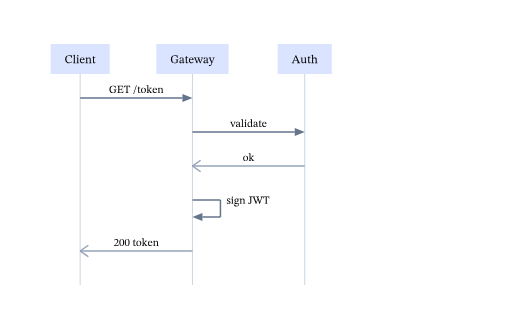
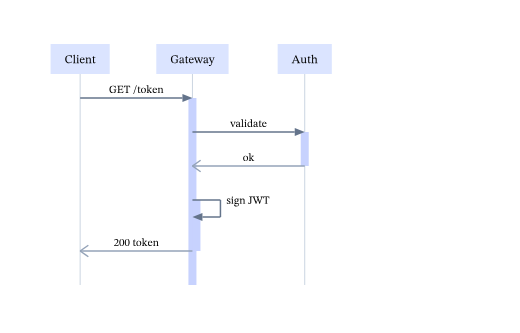
sequence: activation frames (M2 — implicit activation + nesting/offset)
Draws activation bars on actor lifelines in SequenceLayout — the single
most-expected missing sequence feature (M1 was linear-only).

IMPLICIT activation semantics (zero new parser/IR surface — derived entirely
in layout from the existing call/reply kinds):
  - a CALL `->>` activates its CALLEE (the `to`): pushes an activation onto
    that actor's stack, starting at the message y;
  - a REPLY `-->>` deactivates its SENDER (the `from`): pops that actor's
    most-recent open activation (LIFO), ending its bar at the reply y.
Implicit-only: no explicit `activate`/`deactivate` lines — kept parseSequence
untouched so it can't conflict with the sibling worker's top-level `case`.

Self-message decision (Mermaid semantics, documented): a self-call `A ->> A`
activates A too — the callee is A, so no special case is needed.

Nesting/offset: concurrent activations of the SAME actor carry a depth (the
open-count at push time); each steps ACT_OFFSET (4px) to the right so
overlapping bars stay visible. Bars are thin ACT_FILL (#c7d2fe) rects centred
on the lifeline, emitted after the lifelines (overlay) and before the messages
(arrows draw on top). Arrows still connect to the lifeline CENTRE (v1 — bar
overlays the centred arrow; edge-coupling deferred).

Robustness (DESIGN §6, malformed→inert never throw): an UNBALANCED reply
(pop on an empty stack) is ignored; an UNBALANCED call (no reply) keeps its
default endY = contentBottom, closing cleanly at the diagram bottom. Canvas
[…]

Changed region(s): [[0.3385, 0.3003, 0.4, 0.8709], [0.5538, 0.3904, 0.6154, 0.5105]]

diff --git a/src/test/java/com/sirentide/SequenceTest.java b/src/test/java/com/sirentide/SequenceTest.java
@@ -169,7 +169,9 @@ class SequenceTest {
     void nActorsRenderNRectsAndNLifelines() {
         String svg = Sirentide.render("sequence\nA ->> B : x\nB ->> C : y\n");
         assertTrue(svg.startsWith("<svg") && svg.endsWith("</svg>"), "well-formed");
-        assertEquals(3, count(svg, "<rect"), "one head box per actor");
+        // Head boxes carry the head fill; activation bars (M2) add their own ACT_FILL rects, so count
+        // HEAD rects by fill — one per actor (the two calls here also open two activation bars).
+        assertEquals(3, count(svg, "fill=\"#dbe4ff\""), "one head box per actor");
         // Lifelines are the ONLY light-stroke lines; 3 actors → 3 lifelines (message lines add more).
         assertEquals(3, count(svg, "stroke=\"#cbd5e1\""), "one lifeline per actor");
         assertFalse(svg.contains("<text"), "labels are glyph paths, never <text>");
@@ -199,7 +201,9 @@ class SequenceTest {
     void selfMessageRendersAHookAndArrowhead() {
         String svg = Sirentide.render("sequence\nAlice ->> Alice : loop\n");
         assertTrue(svg.startsWith("<svg"), "well-formed");
-        assertEquals(1, count(svg, "<rect"), "one actor head");
+        // One actor head (by head fill); the self-CALL also opens an activation bar (Mermaid semantics
+        // — a self `->>` activates the actor), which adds its own ACT_FILL rect, so don't count raw rects.
+        assertEquals(1, count(svg, "fill=\"#dbe4ff\""), "one actor head");
         // The self-hook is 3 segments (out, down, back-to-base) + 1 lifeline = 4 call-coloured/light
         // lines; plus the filled-triangle arrowhead path.
         assertTrue(count(svg, "<line") >= 4, "hook segments + lifeline");
@@ -286,5 +290,114 @@ class SequenceTest {
 
     private static void assertInRange(double x, double width, String what) {
         assertTrue(x >= 0 && x <= width, what + " " + x + " escapes canvas width " + width);
+    }
+
+    // -- M2: activation bars ---------------------------------------------------
+
+    private static final String ACT_FILL = "#c7d2fe";     // the subtle activation-bar fill
+    private static final String CALL_STROKE = "#64748b";  // a call `->>` message line
+    private static final String REPLY_STROKE = "#94a3b8"; // a reply `-->>` message line
+    private static final String LIFELINE = "#cbd5e1";     // a lifeline vertical
+    private static final double ACT_OFFSET = 4;           // the nesting x-step
+
+    /// Every activation-bar rect as `{x, y, width, height}` — the ONLY rects filled ACT_FILL (head
+    /// boxes use the head fill), so the fill cleanly discriminates them from the actor heads.
+    private static List<double[]> activationRects(String svg) {
+        Matcher m = Pattern.compile("<rect x=\"([\\-0-9.]+)\" y=\"([\\-0-9.]+)\" width=\"([\\-0-9.]+)\""
+            + " height=\"([\\-0-9.]+)\" fill=\"" + ACT_FILL + "\"").matcher(svg);
+        List<double[]> out = new java.util.ArrayList<>();
+        while (m.find()) {
+            out.add(new double[] {Double.parseDouble(m.group(1)), Double.parseDouble(m.group(2)),
+                Double.parseDouble(m.group(3)), Double.parseDouble(m.group(4))});
+        }
+        return out;
+    }
+
+    /// The y of the first HORIZONTAL line (y1 == y2) drawn with `stroke` — the message line for a
+    /// call/reply (an open-V reply also emits two non-horizontal lines with the reply stroke, which
+    /// this skips). Used to pin an activation bar's span to the actual call/reply y's, not to
+    /// brittle layout constants.
+    private static double horizontalLineY(String svg, String stroke) {
+        Matcher m = Pattern.compile("<line x1=\"[\\-0-9.]+\" y1=\"([\\-0-9.]+)\" x2=\"[\\-0-9.]+\""
+            + " y2=\"([\\-0-9.]+)\" stroke=\"" + stroke + "\"").matcher(svg);
+        while (m.find()) {
+            double y1 = Double.parseDouble(m.group(1));
+            double y2 = Double.parseDouble(m.group(2));
+            if (y1 == y2) {
+                return y1;
+            }
+        }
+        throw new AssertionError("no horizontal line with stroke " + stroke);
+    }
+
+    /// The rightmost lifeline x (a VERTICAL line, x1 == x2, LIFELINE stroke) — the callee's lifeline
+    /// in a two-actor A→B diagram (B is declared second → laid out to the right).
+    private static double rightmostLifelineX(String svg) {
+        Matcher m = Pattern.compile("<line x1=\"([\\-0-9.]+)\" y1=\"([\\-0-9.]+)\" x2=\"([\\-0-9.]+)\""
+            + " y2=\"([\\-0-9.]+)\" stroke=\"" + LIFELINE + "\"").matcher(svg);
+        double max = Double.NEGATIVE_INFINITY;
+        while (m.find()) {
+            double x1 = Double.parseDouble(m.group(1));
+            double x2 = Double.parseDouble(m.group(3));
+            if (x1 == x2) {
+                max = Math.max(max, x1);
+            }
+        }
+        assertTrue(Double.isFinite(max), "at least one lifeline");
+        return max;
+    }
+
+    @Test
+    void aCallReplyPairProducesOneActivationBarOnTheCalleeSpanningCallToReply() {
+        // A CALL `->>` activates its callee (B); the matching REPLY `-->>` from B deactivates it. So
+        // exactly ONE activation bar, on B's lifeline, spanning the call y down to the reply y.
+        String svg = Sirentide.render("sequence\nA ->> B : go\nB -->> A : ok\n");
+        List<double[]> bars = activationRects(svg);
+        assertEquals(1, bars.size(), "one call/reply pair → exactly one activation bar");
+        double[] bar = bars.get(0);
+        double callY = horizontalLineY(svg, CALL_STROKE);
+        double replyY = horizontalLineY(svg, REPLY_STROKE);
+        assertEquals(callY, bar[1], 1e-6, "the bar starts at the call's y");
+        assertEquals(replyY, bar[1] + bar[3], 1e-6, "the bar ends at the reply's y");
+        assertTrue(bar[3] > 0, "positive height");
+        // Centred on the callee's (B's, rightmost) lifeline.
+        double center = bar[0] + bar[2] / 2;
+        assertEquals(rightmostLifelineX(svg), center, 1e-6, "the bar sits on the callee's lifeline");
+    }
+
+    @Test
+    void nestedActivationsStackWithAnXOffset() {
+        // Two concurrent calls to B (before either reply) open TWO activations on B; each deactivates
+        // in LIFO order. The two bars stack with an ACT_OFFSET x-step so the overlap stays visible.
+        String svg = Sirentide.render("sequence\nA ->> B : c1\nA ->> B : c2\n"
+            + "B -->> A : r2\nB -->> A : r1\n");
+        List<double[]> bars = activationRects(svg);
+        assertEquals(2, bars.size(), "two concurrent activations → two stacked bars");
+        double x0 = bars.get(0)[0];
+        double x1 = bars.get(1)[0];
+        assertEquals(ACT_OFFSET, Math.abs(x0 - x1), 1e-6, "the nested bar steps ACT_OFFSET to the right");
+        // The inner (2nd) activation opens later and closes earlier → its bar is shorter and sits
+        // strictly inside the outer's y-span (LIFO nesting).
+        double[] outer = bars.get(0)[3] >= bars.get(1)[3] ? bars.get(0) : bars.get(1);
+        double[] inner = bars.get(0)[3] >= bars.get(1)[3] ? bars.get(1) : bars.get(0);
+        assertTrue(inner[1] > outer[1], "the inner activation opens after the outer");
+        assertTrue(inner[1] + inner[3] < outer[1] + outer[3], "the inner closes before the outer");
+    }
+
+    @Test
+    void anUnbalancedCallClosesAtTheDiagramBottomWithoutThrowing() {
+        // A call with NO matching reply must close cleanly at the diagram bottom (malformed→inert,
+        // never throw). The bar's bottom lands on the lifeline's bottom (contentBottom).
+        String svg = Sirentide.render("sequence\nA ->> B : go\n");
+        assertTrue(svg.startsWith("<svg") && svg.endsWith("</svg>"), "well-formed, no throw");
+        List<double[]> bars = activationRects(svg);
+        assertEquals(1, bars.size(), "the unbalanced call still draws its bar");
+        double[] bar = bars.get(0);
+        // The lifeline's bottom y (y2 of a vertical LIFELINE line) is the diagram content bottom.
+        Matcher m = Pattern.compile("<line x1=\"([\\-0-9.]+)\" y1=\"[\\-0-9.]+\" x2=\"([\\-0-9.]+)\""
+            + " y2=\"([\\-0-9.]+)\" stroke=\"" + LIFELINE + "\"").matcher(svg);
+        assertTrue(m.find(), "a lifeline exists");
+        double lifelineBottom = Double.parseDouble(m.group(3));
+        assertEquals(lifelineBottom, bar[1] + bar[3], 1e-6, "the unbalanced bar closes at the diagram bottom");
     }
 }

diff --git a/src/main/java/com/sirentide/layout/SequenceLayout.java b/src/main/java/com/sirentide/layout/SequenceLayout.java
@@ -3,7 +3,9 @@ package com.sirentide.layout;
 import com.sirentide.font.FontMetrics;
 import com.sirentide.ir.SeqMessage;
 import com.sirentide.ir.Sequence;
+import java.util.ArrayDeque;
 import java.util.ArrayList;
+import java.util.Deque;
 import java.util.HashMap;
 import java.util.List;
 import java.util.Map;
@@ -16,8 +18,9 @@ import java.util.Map;
 /// Robustness is the point (DESIGN §6 — never throw, always terminate): an unknown-actor message is
 /// defensively skipped, and non-finite geometry can never reach emit (guards + {@link #fmt}).
 ///
-/// M1 scope: linear messages only. FOLLOW-UP (M2): activation bars, alt/loop/par frames, and
-/// bottom actor boxes.
+/// M1 scope: linear messages only. M2 adds ACTIVATION BARS (this file — implicit activation: a call
+/// `->>` activates its callee, a reply `-->>` deactivates its sender, nested activations stack with an
+/// x-offset). FOLLOW-UP (M3): alt/loop/par frames, and bottom actor boxes.
 public final class SequenceLayout {
 
     private SequenceLayout() {}
@@ -52,6 +55,13 @@ public final class SequenceLayout {
     private static final double V_DX = 8.19;          // open-V back-offset ≈ ARROW_LEN·cos35°
     private static final double V_DY = 5.74;          // open-V half-spread ≈ ARROW_LEN·sin35°
     private static final double EDGE_PAD = 2;         // labels are clamped inside [EDGE_PAD, W-EDGE_PAD]
+
+    // -- activation bars (M2). A thin rect on the actor's lifeline while a call is active; nested
+    // (concurrent) activations of the SAME actor step ACT_OFFSET right so overlapping bars stay
+    // visible. ACT_FILL is a subtle "active" tint that reads over the light lifeline without dominating.
+    private static final double ACT_W = 8;            // activation-bar width
+    private static final double ACT_OFFSET = 4;       // each nesting depth steps this far right
+    private static final String ACT_FILL = "#c7d2fe"; // subtle soft-indigo "active" fill
 
     /// The visible-degrade message for a non-empty body that parsed to ZERO actors (every line
     /// malformed) — drawn as a glyph run so a mistyped sequence never renders as silent nothing.
@@ -115,6 +125,44 @@ public final class SequenceLayout {
         }
         double contentBottom = headBottom + MSG_TOP_PAD + rowCursor * ROW_H;
 
+        // -- activation bars (M2, IMPLICIT activation — the low-friction default). Walk the drawn
+        // messages in time order maintaining a per-actor STACK of open activations:
+        //   • a CALL `->>` (reply=false) ACTIVATES its CALLEE (the `to`) — push an activation onto
+        //     that actor's stack, starting at the message y. A self-call `A ->> A` activates A too
+        //     (Mermaid semantics: the callee is A — no special case, `to` already equals `from`).
+        //   • a REPLY `-->>` (reply=true) DEACTIVATES its SENDER (the `from`) — pop that actor's
+        //     MOST-RECENT open activation (LIFO), ending its bar at the reply y.
+        // Nested (concurrent) activations of the same actor carry a `depth` = the open count at push
+        // time, so each steps ACT_OFFSET to the right and overlapping bars stay visible. Robustness
+        // (DESIGN §6 — malformed→inert, never throw): an UNBALANCED reply (pop on an empty stack) is
+        // ignored (nothing to close); an UNBALANCED call (no matching reply) keeps its default endY =
+        // contentBottom, so its bar closes cleanly at the diagram bottom. Arrows still connect to the
+        // lifeline CENTRE (v1 — the bar overlays the centred arrow; edge-coupling is a follow-up).
+        List<Activation> activations = new ArrayList<>();
+        List<Deque<Activation>> open = new ArrayList<>(n);
+        for (int i = 0; i < n; i++) {
+            open.add(new ArrayDeque<>());
+        }
+        for (int i = 0; i < drawn.size(); i++) {
+            SeqMessage m = drawn.get(i);
+            double y = msgY[i];
+            if (!m.reply()) {
+                int actor = index.get(m.to());        // a call activates the callee
+                Deque<Activation> st = open.get(actor);
+                Activation act = new Activation(actor, y, contentBottom, st.size());
+                activations.add(act);
+                st.push(act);
+            } else {
+                int actor = index.get(m.from());       // a reply deactivates the sender
+                Deque<Activation> st = open.get(actor);
+                if (!st.isEmpty()) {
+                    st.pop().endY = y;                 // close the most-recent open activation (LIFO)
+                }
+                // else: an unbalanced reply — no open activation to close, ignore (never throw)
+            }
+        }
+        // Still-open activations (unbalanced calls) keep their default endY = contentBottom.
+
         // -- canvas width: base = last lifeline + half a head + margin. Then WIDEN for any trailing
         // actor's self-message label (its hook + left-aligned label reach right of the lifeline).
         double baseW = cx[n - 1] + maxHeadW / 2 + MARGIN;
@@ -129,6 +177,12 @@ public final class SequenceLayout {
                 canvasW = Math.max(canvasW, need);
             }
         }
+        // Widen for any activation bar that offsets RIGHT past the base width (a deeply-nested bar on
+        // the trailing actor) so the containment invariant holds — no rect x+width escapes the canvas.
+        for (Activation act : activations) {
+            double right = cx[act.actor] - ACT_W / 2 + act.depth * ACT_OFFSET + ACT_W;
+            canvasW = Math.max(canvasW, right + MARGIN);
+        }
         double canvasH = contentBottom + MARGIN;
 
         // -- emit order (readability + the containment audit): lifelines UNDER, then message lines +
@@ -138,6 +192,19 @@ public final class SequenceLayout {
         // 1) lifelines: a light vertical line from each head bottom to the diagram bottom.
         for (int i = 0; i < n; i++) {
             shapes.add(new Line(cx[i], headBottom, cx[i], contentBottom, LIFELINE_STROKE, LIFELINE_WIDTH));
+        }
+
+        // 1.5) activation bars: a thin ACT_FILL rect per activation, centred on its actor's lifeline
+        // (nested bars stepped right by ACT_OFFSET·depth). Emitted AFTER the lifelines (the bar
+        // overlays the line) and BEFORE the messages (arrows/heads draw on top). A degenerate span
+        // (zero/negative/non-finite height) is skipped — never emit inverted geometry (DESIGN §6).
+        for (Activation act : activations) {
+            double h = act.endY - act.startY;
+            if (!Double.isFinite(h) || h <= 0) {
+                continue;
+            }
+            double bx = cx[act.actor] - ACT_W / 2 + act.depth * ACT_OFFSET;
+            shapes.add(new Rect(bx, act.startY, ACT_W, h, ACT_FILL));
         }
 
         // 2) messages.
@@ -276,6 +343,26 @@ public final class SequenceLayout {
             x = EDGE_PAD;
         }
         return x;
+    }
+
+    /// One activation frame on an actor's lifeline: the actor's column `index`, the y where the bar
+    /// STARTS (a call arrived), the y where it ENDS (its matching reply — or `contentBottom` if the
+    /// call was never replied to), and the nesting `depth` (0 = the base bar centred on the lifeline;
+    /// each concurrent activation of the same actor steps +ACT_OFFSET right so overlapping bars stay
+    /// visible). Mutable in `endY` alone: it is filled in when the reply is seen, else left at the
+    /// diagram bottom (the unbalanced-call close). Layout-internal, never emitted directly.
+    private static final class Activation {
+        final int actor;
+        final double startY;
+        double endY;
+        final int depth;
+
+        Activation(int actor, double startY, double endY, int depth) {
+            this.actor = actor;
+            this.startY = startY;
+            this.endY = endY;
+            this.depth = depth;
+        }
     }
 
     /// Deterministic 3-dp number formatting for arrowhead path data (byte-identical bakes, DESIGN §6).

diff --git a/src/test/java/com/sirentide/GoldenSvgTest.java b/src/test/java/com/sirentide/GoldenSvgTest.java
@@ -45,6 +45,14 @@ class GoldenSvgTest {
         FIXTURES.put("flowchart",
             "flowchart TD\n  A[Start] --> B{Ready?}\n  B -->|yes| C[Build] --> D[Ship]\n"
                 + "  B -->|no| E[Fix] --> A\n");
+        // A 3-actor sequence with ACTIVATION bars (M2): Client→Gateway opens Gateway's bar,
+        // Gateway→Auth opens Auth's, Auth-->>Gateway closes Auth's, a NESTED self-call on Gateway
+        // stacks an offset bar, and the final reply closes it — pinning the activation-rect geometry
+        // (start/end y, nesting x-offset, unbalanced close) byte-for-byte.
+        FIXTURES.put("sequence",
+            "sequence\n  Client ->> Gateway : GET /token\n  Gateway ->> Auth : validate\n"
+                + "  Auth -->> Gateway : ok\n  Gateway ->> Gateway : sign JWT\n"
+                + "  Gateway -->> Client : 200 token\n");
     }
 
     @Test

diff --git a/src/test/java/com/sirentide/ContainmentTest.java b/src/test/java/com/sirentide/ContainmentTest.java
@@ -73,6 +73,11 @@ class ContainmentTest {
         // sequence ZERO-ACTOR degrade (fix 2): a NON-EMPTY body where every line is malformed renders a
         // visible `sequence: no messages parsed` glyph-run canvas — must stay in-set, not the inert shell.
         "sequence\n  garbage line\n  more garbage\n",
+        // sequence ACTIVATION bars (M2): a call `->>` opens an activation on its callee, a reply `-->>`
+        // closes it, a NESTED concurrent call stacks an offset bar, and a trailing UNBALANCED call
+        // (no reply) closes at the diagram bottom — exercises the new ACT_FILL <rect>s through the
+        // allowlist (rect is already in-set; this proves the activation rects obey the value grammar).
+        "sequence\n  A ->> B : c1\n  A ->> B : c2\n  B -->> A : r2\n  B -->> A : r1\n  A ->> B : dangling\n",
         // state diagram (7th type): `[*]` start + end pseudostates (disc + bullseye Wedge paths), a
         // labeled transition, and a CYCLE (Idle↔Running) — exercises the reused flowchart engine's
         // cycle handling plus the new disc geometry, all through the allowlist.